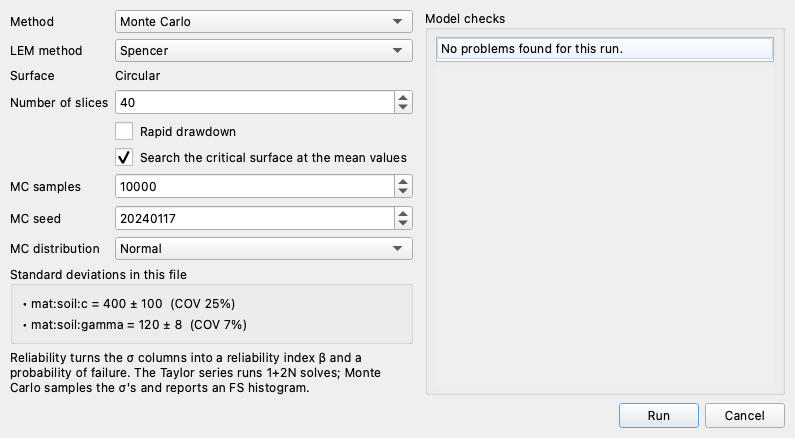
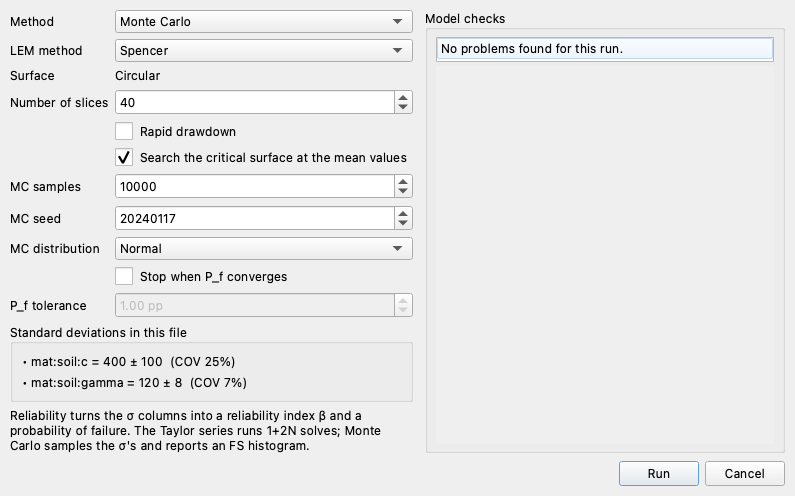
feat(reliability): Monte Carlo can stop when the probability of failure converges
converge_pf checks the empirical P_f every 100 realizations and stops once
its 95% confidence half-width (1.96*sqrt(p(1-p)/n)) is inside the tolerance
— the samples field becomes the cap. The rule holds off until 500
realizations and 10 observed failures, so rare-event campaigns run to the
cap rather than stopping on false confidence, and because the sample matrix
is drawn up front from the fixed seed, a converged run is exactly the first
n realizations of the full one: bit-reproducible, measured stopping at
n = 5,400 for +/-1 pp on the sample-15 model (23 s against 41). Off by
default; existing behavior and every fixed-n lock unchanged.

Studio's Reliability dialog gains the checkbox and its tolerance (live only
on the MC engine), the runner and the reliability() facade pass it through,
the harness accepts converge_pf in reliability_mc tags, and sample 15's MC
lock now runs in convergence mode (beta_ln 0.968 at its deterministic
stopping point) — one tag guarding both the critical-circle fix and the new
rule. Documented on the Monte Carlo page; LEM-11 names the checkbox and its
this-model stopping point.

Claude-Session: https://claude.ai/code/session_01XjjT2aBxw8gY7EFdpoUcpj

diff --git a/xslope/reliability.py b/xslope/reliability.py
@@ -29,6 +29,7 @@ name here for backward compatibility, so ``from xslope.advanced import reliabili
 
 import time
 
+import math
 import numpy as np
 import pandas as pd
 from scipy.stats import norm
@@ -854,7 +855,8 @@ def reliability_mc(slope_data, method, rapid=False, circular=True, debug_level=0
                    progress_callback=None, cancel_check=None,
                    fs_tol=None, tol=None, max_iter=None, composite=False,
                    seed='circles', search_opts=None, use_file_window=True,
-                   check_inputs=True):
+                   check_inputs=True, converge_pf=None, converge_check=100,
+                   converge_min=500):
     """Monte Carlo reliability analysis — the sampling counterpart to the
     Taylor-series :func:`reliability`.
 
@@ -887,6 +889,21 @@ def reliability_mc(slope_data, method, rapid=False, circular=True, debug_level=0
     rng_seed : int
         Seed for ``numpy.random.default_rng`` — a fixed constant by default, so the
         result is bit-reproducible. Pass a different int to see sampling scatter.
+    converge_pf : float, optional
+        Statistical-convergence stopping tolerance on the empirical probability
+        of failure, in probability units (0.005 = half a percentage point). When
+        set, the campaign checks every ``converge_check`` realizations and stops
+        as soon as the 95% confidence half-width on P_f,
+        1.96·sqrt(p(1−p)/n), falls inside the tolerance — additional
+        realizations past that point no longer move the answer at the stated
+        resolution. ``n_samples`` becomes the cap. The rule never fires before
+        ``converge_min`` realizations or before 10 failures have been observed
+        (below that the normal approximation behind the half-width is not
+        valid, which protects rare-event problems from stopping on false
+        confidence). Because the whole sample matrix is drawn up front from the
+        fixed seed, a converged run is exactly the first ``n_used`` realizations
+        of the full run — bit-reproducible, like everything else here. Default
+        None: run all ``n_samples``, the previous behavior unchanged.
     distribution : {'normal', 'lognormal'}
         Per-parameter input distribution. Default 'normal' (mean = MLV, std =
         sigma), the same interpretation the Taylor-series method places on the
@@ -1082,6 +1099,10 @@ def reliability_mc(slope_data, method, rapid=False, circular=True, debug_level=0
     fs_vals = np.empty(n_samples)
     valid = np.ones(n_samples, dtype=bool)
     report_every = max(1, n_samples // 20)
+    n_used = n_samples
+    pf_trace = [] if converge_pf is not None else None
+    pf_ci_half = None
+    run_fail = run_valid = 0
     for k in range(n_samples):
         if k % report_every == 0:
             _check_cancel(cancel_check)
@@ -1093,7 +1114,26 @@ def reliability_mc(slope_data, method, rapid=False, circular=True, debug_level=0
             fs_vals[k] = np.nan
         else:
             fs_vals[k] = fk
-    _progress(n_samples, n_samples, "Monte Carlo complete")
+            run_valid += 1
+            if fk < 1.0:
+                run_fail += 1
+        if (converge_pf is not None and (k + 1) % converge_check == 0
+                and run_valid > 0):
+            p = run_fail / run_valid
+            half = 1.96 * math.sqrt(p * (1.0 - p) / run_valid)
+            pf_trace.append((run_valid, p, half))
+            # The half-width is a normal approximation; below ~10 observed
+            # failures it is not credible, so a rare-event campaign keeps
+            # sampling to the cap rather than stopping on false confidence.
+            if (k + 1 >= converge_min and run_fail >= 10
+                    and half <= converge_pf):
+                n_used = k + 1
+                pf_ci_half = half
+                break
+    _progress(n_used, n_used, "Monte Carlo complete")
+    if n_used < n_samples:
+        fs_vals = fs_vals[:n_used]
+        valid = valid[:n_used]
 
     fs_ok = fs_vals[valid]
     n_valid = int(fs_ok.size)
@@ -1128,14 +1168,25 @@ def reliability_mc(slope_data, method, rapid=False, circular=True, debug_level=0
                  for p in param_info]
         print(tabulate(table, headers=["Parameter", "MLV", "σ", "COV"],
                        tablefmt="grid", colalign=["left", "center", "center", "center"]))
-        print(f"\nSamples: {n_samples} (valid {n_valid}, invalid {n_invalid}) | "
-              f"seed {rng_seed} | {distribution}")
+        print(f"\nSamples: {n_used} of {n_samples} requested "
+              f"(valid {n_valid}, invalid {n_invalid}) | seed {rng_seed} | {distribution}")
+        if converge_pf is not None:
+            if n_used < n_samples:
+                print(f"Converged at n = {n_used}: P_f {pf_empirical*100:.2f}% "
+                      f"± {pf_ci_half*100:.2f} pp (95% CI ≤ ±{converge_pf*100:.2f} pp)")
+            else:
+                print(f"Convergence tolerance ±{converge_pf*100:.2f} pp not met "
+                      f"within the {n_samples}-sample cap.")
         print(f"Mean FS: {mean_FS:.4f}   σ_F: {sigma_F:.4f}   COV_F: {COV_F:.4f}")
         print(f"β (normal): {beta_normal:.4f}   β (lognormal): {beta_ln:.4f}")
         print(f"PF empirical: {pf_empirical*100:.3f}%   "
               f"PF normal: {pf_normal*100:.3f}%   PF lognormal: {pf_lognormal*100:.3f}%")
 
     result = {
+        'n_requested': n_samples,
+        'n_used': n_used,
+        'pf_ci_half': pf_ci_half,
+        'pf_trace': pf_trace,
         'method': f'{method}_reliability_mc',
         'F_MLV': F_MLV,
         'mean_FS': mean_FS,

diff --git a/studio/dialogs.py b/studio/dialogs.py
@@ -2145,10 +2145,37 @@ class ReliabilityDialog(QDialog):
         self.seed.setToolTip("Random seed — a fixed value makes the run reproducible.")
         self.distribution = self._combo(MC_DISTRIBUTIONS,
                                         defaults.get("distribution", "normal"))
+        # Statistical-convergence stopping (off by default): check the empirical
+        # P_f every 100 realizations and stop when its 95% confidence half-width
+        # falls inside the tolerance — the samples field becomes the cap. The
+        # rule never fires before 500 realizations or 10 observed failures, so a
+        # rare-event campaign runs to the cap rather than stopping on false
+        # confidence.
+        self.mc_converge = QCheckBox("Stop when P_f converges")
+        self.mc_converge.setChecked(defaults.get("converge_pf") is not None)
+        self.mc_converge.setToolTip(
+            "Stop sampling once the 95% confidence half-width on the empirical "
+            "probability of failure is inside the tolerance — further "
+            "realizations no longer move the answer at that resolution. "
+            "MC samples becomes the cap. With a fixed seed the stopped run is "
+            "still exactly reproducible.")
+        self.mc_converge_tol = QDoubleSpinBox()
+        self.mc_converge_tol.setDecimals(2)
+        self.mc_converge_tol.setRange(0.05, 5.0)
+        self.mc_converge_tol.setSingleStep(0.25)
+        self.mc_converge_tol.setSuffix(" pp")
+        self.mc_converge_tol.setValue(
+            float(defaults.get("converge_pf") or 0.01) * 100)
+        self.mc_converge_tol.setToolTip(
+            "Tolerance on P_f as a 95% confidence half-width, in percentage "
+            "points. ±1 pp on a P_f near 15% is reached in a few thousand "
+            "realizations; ±0.5 pp needs roughly four times as many.")
         if self.app_mode == "lem":
             form.addRow("MC samples", self.n_samples)
             form.addRow("MC seed", self.seed)
             form.addRow("MC distribution", self.distribution)
+            form.addRow("", self.mc_converge)
+            form.addRow("P_f tolerance", self.mc_converge_tol)
 
         # --- FEM SSRM bracket + tolerance (FEM only) -----------------------
         self.f_min = QDoubleSpinBox()
@@ -2223,6 +2250,7 @@ class ReliabilityDialog(QDialog):
         two_pane(self, layout, self.preflight, bb, fixed=True)
 
         self.engine.currentIndexChanged.connect(self._sync_enabled)
+        self.mc_converge.toggled.connect(self._sync_enabled)
         self.method.currentIndexChanged.connect(self.preflight.refresh)
         if self.surface is not None:
             self.surface.currentIndexChanged.connect(self.preflight.refresh)
@@ -2267,8 +2295,10 @@ class ReliabilityDialog(QDialog):
     def _sync_enabled(self):
         mc = self._engine_value() == "mc" and self.app_mode == "lem"
         # Monte Carlo controls only matter for the MC engine.
-        for w in (self.n_samples, self.seed, self.distribution):
+        for w in (self.n_samples, self.seed, self.distribution,
+                  self.mc_converge):
             w.setEnabled(mc)
+        self.mc_converge_tol.setEnabled(mc and self.mc_converge.isChecked())
 
     def options(self):
         return {
@@ -2282,6 +2312,8 @@ class ReliabilityDialog(QDialog):
             "n_samples": self.n_samples.value(),
             "rng_seed": self.seed.value(),
             "distribution": self.distribution.currentData(),
+            "converge_pf": (self.mc_converge_tol.value() / 100
+                            if self.mc_converge.isChecked() else None),
             "F_min": self.f_min.value(),
             "F_max": self.f_max.value(),
             "reliability_tol": self.reliability_tol.value(),

diff --git a/studio/runners.py b/studio/runners.py
@@ -1015,15 +1015,18 @@ class ReliabilityRunner(RunnerThread):
         from xslope.reliability import reliability
         o, sd = self._opts, self._sd
         circular = o.get("surface", "circular") == "circular"
+        conv = o.get("converge_pf")
         print(f"Running Monte Carlo reliability — {o['method'].upper()}, "
               f"{o.get('n_samples')} samples, seed {o.get('rng_seed')}, "
-              f"{o.get('distribution', 'normal')}…")
+              f"{o.get('distribution', 'normal')}"
+              + (f", stop at P_f ±{conv*100:.2f} pp" if conv else "") + "…")
         ok, result = reliability(
             sd, o["method"], engine="mc", rapid=o.get("rapid", False),
             circular=circular, search=o.get("search", True),
             n_samples=int(o.get("n_samples", 10000)),
             rng_seed=int(o.get("rng_seed", 20240117)),
             distribution=o.get("distribution", "normal"),
+            converge_pf=conv,
             num_slices=int(o.get("num_slices", 40)), debug_level=0,
             progress_callback=self._progress_cb(), cancel_check=self._cancel.is_set)
         if not ok:

diff --git a/run_tests.py b/run_tests.py
@@ -1584,6 +1584,8 @@ def run_reliability_mc_test(test):
     kw = {}
     if 'rng_seed' in test:
         kw['rng_seed'] = int(test['rng_seed'])
+    if 'converge_pf' in test:
+        kw['converge_pf'] = float(test['converge_pf'])
 
     slope_data = load_slope_data(file_path)
     success, result = reliability_mc(slope_data, method, circular=circular, search=do_search,

diff --git a/docs/reliability/monte_carlo.md b/docs/reliability/monte_carlo.md
@@ -58,6 +58,22 @@ limit-equilibrium solve but not with the finite-element SSRM, so FEM reliability
 stays on the Taylor series (1 + 2N solves — see
 [Reliability Analysis (FEM)](fem.md)).
 
+**Stopping on statistical convergence.** The number of realizations a campaign
+needs is set by the answer, not the input: the 95% confidence half-width on an
+empirical probability of failure is $1.96\sqrt{p(1-p)/n}$, so resolving a
+$P_f$ near 15% to ±1 percentage point takes roughly 5,000 realizations and to
+±0.5 points roughly 21,000. The optional convergence stop does that arithmetic
+live — `converge_pf` (the **Stop when P_f converges** checkbox and its
+tolerance in Studio's Reliability dialog) checks the half-width every 100
+realizations and ends the campaign once it is inside the tolerance, with the
+sample count as the cap. The rule never fires before 500 realizations or
+before 10 failures have been observed, so a rare-event problem — where the
+normal approximation behind the half-width is not yet credible — runs to its
+cap instead of stopping on false confidence. Because the whole sample matrix
+is drawn up front from the fixed seed, a converged run is exactly the first
+$n$ realizations of the full one: still bit-reproducible, and reported with
+its stopping $n$ and half-width in the console summary.
+
 ### Worked example: VP34 (Clarence Cannon Dam)
 
 **VP34** is the corpus case Monte Carlo was added for: Wolff & Harr (1987)'s Phase I

diff --git a/docs/tutorials/lem11_reliability.md b/docs/tutorials/lem11_reliability.md
@@ -159,7 +159,7 @@ just the number.
 
 ## Monte Carlo
 
-Open **Reliability…** again and change **Method** to `Monte Carlo`. The three
+Open **Reliability…** again and change **Method** to `Monte Carlo`. The
 controls below the surface options come live:
 
 ![The Reliability dialog on Monte Carlo](images/lem11_studio_reliability_mc.png)
@@ -168,8 +168,12 @@ controls below the surface options come live:
 the random seed — fixed rather than taken from the clock, so the run reproduces
 exactly — and **MC distribution** `Normal` is how each σ is read: as the standard
 deviation of a normal distribution about the material's own value, truncated at
-zero so a draw can never hand the solver a negative strength. Leave all three and
-**Run**.
+zero so a draw can never hand the solver a negative strength. **Stop when P_f
+converges** ends the campaign early once the probability of failure is known to
+a stated resolution — on this model ±1 pp is reached near 5,400 realizations —
+with the samples field as the cap; the
+[Monte Carlo page](../reliability/monte_carlo.md) gives the rule. Leave it
+unticked here, and **Run**.
 
 Ten thousand solves take appreciably longer than five. What comes back is not an
 estimate of the distribution but the distribution itself:

diff --git a/docs/lem/samples.md b/docs/lem/samples.md
@@ -829,7 +829,7 @@ analysis summary:
 | 1.354 | 0.389 | 28.7% | 0.935 | 82.5% | 17.5% |
 
 <!-- test: file=files/xslope_prob_submerged_KEY.xlsx, type=reliability, method=spencer, expected_beta=0.935, tolerance=0.03 -->
-<!-- test: file=files/xslope_prob_submerged_KEY.xlsx, type=reliability_mc, method=spencer, search=true, n_samples=2000, expected_beta=0.981, tolerance=0.02, expected_pf=0.165, pf_tol=0.02 -->
+<!-- test: file=files/xslope_prob_submerged_KEY.xlsx, type=reliability_mc, method=spencer, search=true, n_samples=10000, converge_pf=0.01, expected_beta=0.968, tolerance=0.02, expected_pf=0.169, pf_tol=0.02 -->
 
 ### 16. Saturated vs. Moist Unit Weight (γ_sat)
 
